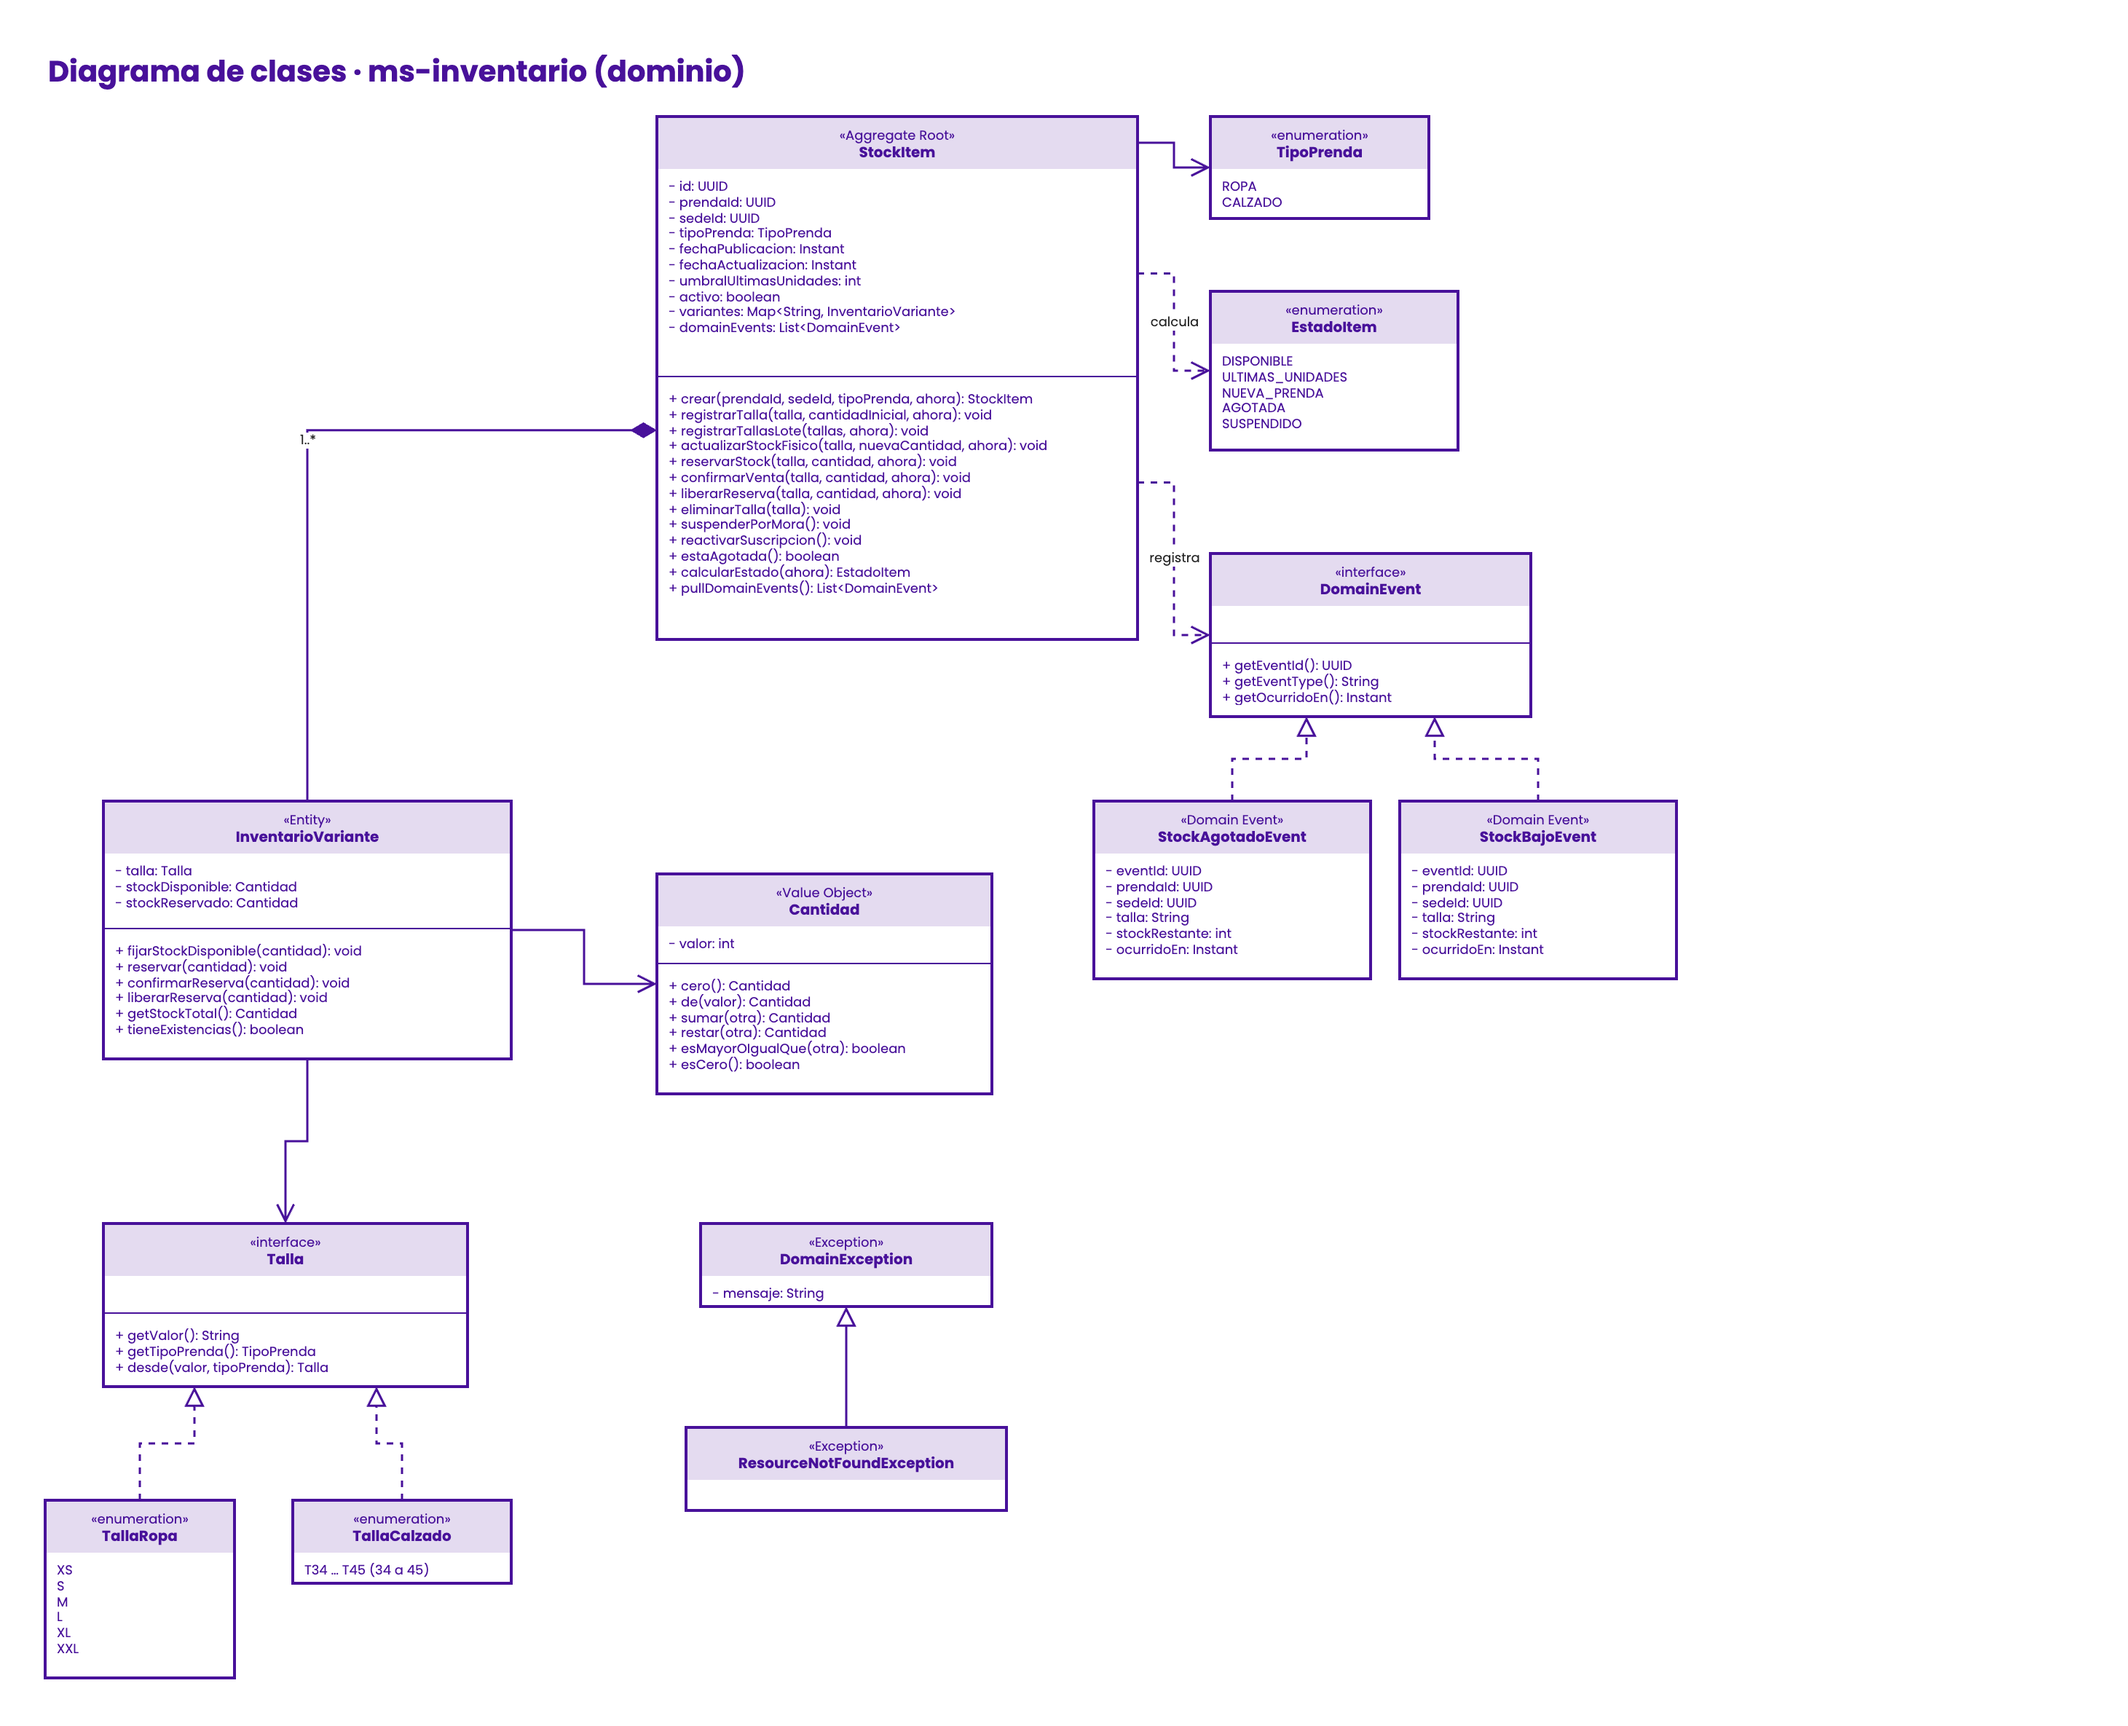
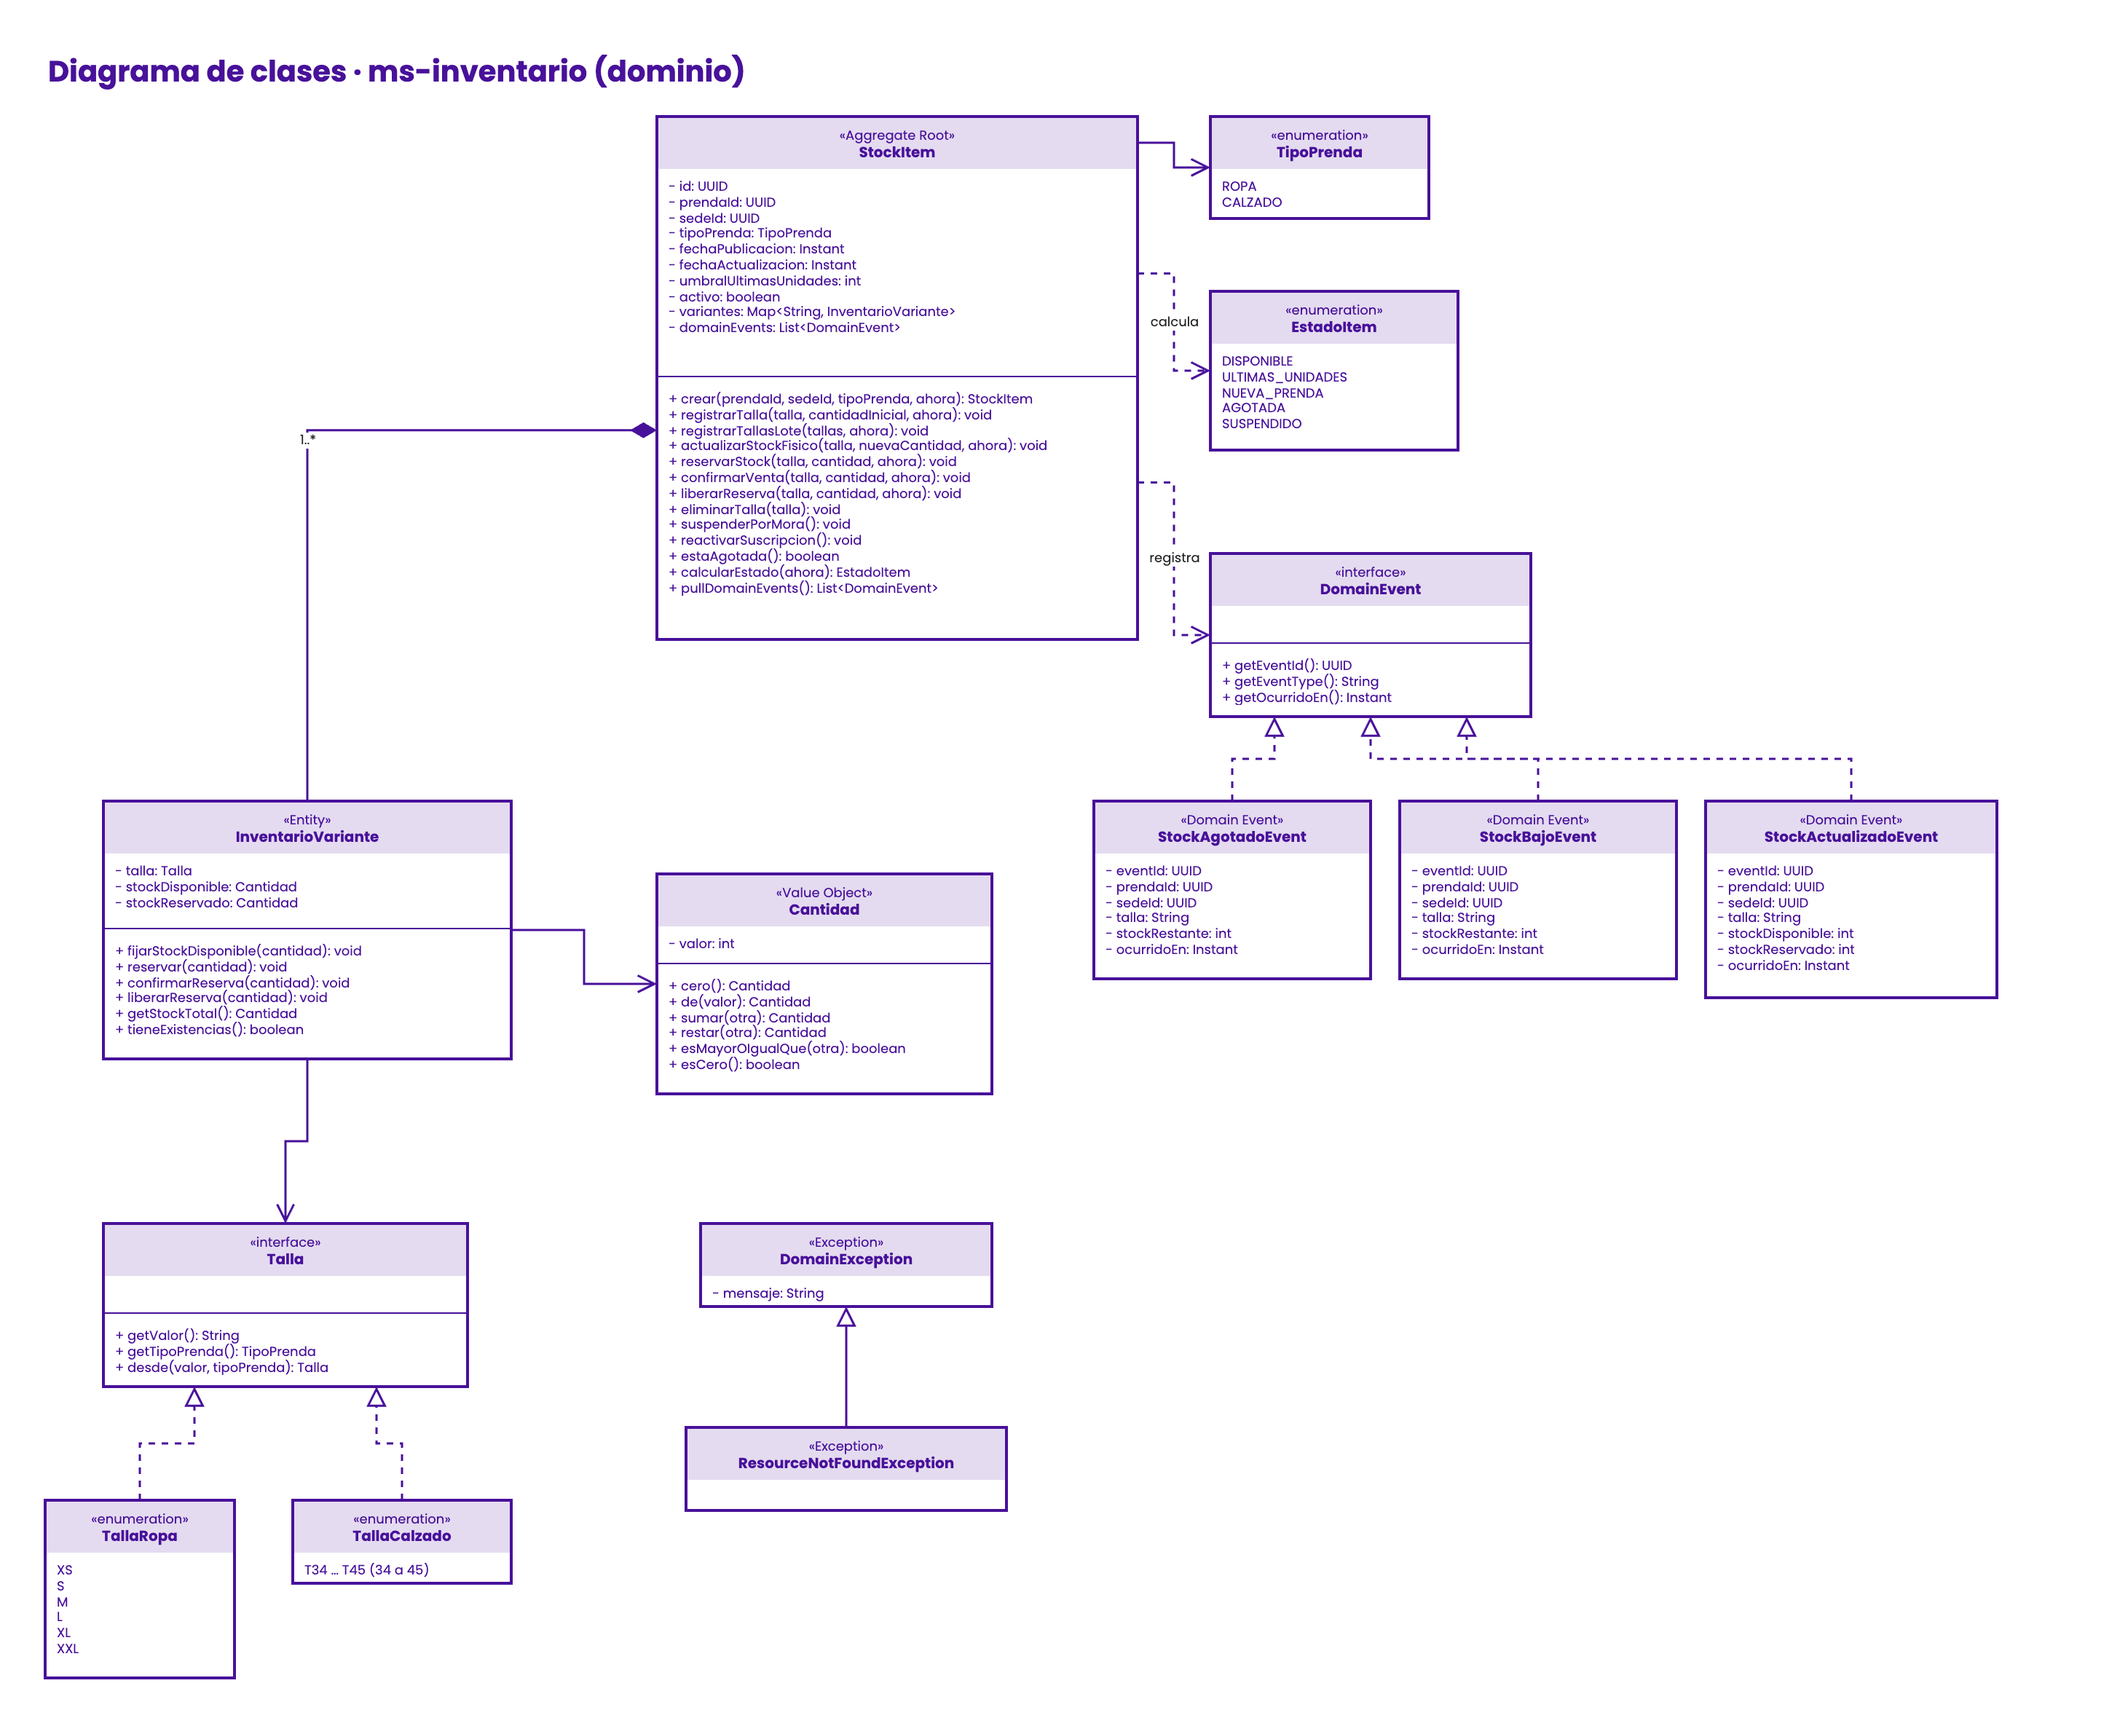
docs: reflect styleradar.exchange and StockActualizadoEvent in inventory diagrams

Changed region(s): [[0.7786, 0.4371, 0.9654, 0.562]]

diff --git a/README.md b/README.md
@@ -204,7 +204,7 @@ El diagrama muestra los cuatro microservicios del paquete Catálogo y cómo se r
   </table>
 </div>
 
-El diagrama muestra el servicio en arquitectura hexagonal. Las peticiones llegan desde el API Gateway a `InventarioRestController` y los eventos de otros servicios llegan por RabbitMQ a `OrdenPagoEventListener` y `SuscripcionEventListener` (adaptadores de entrada). Estos solo conocen los casos de uso (puertos de entrada): registrar stock, registrar un lote de tallas, ajustar y consultar existencias, filtrar prendas por talla, gestionar reservas y suspender el inventario, cada uno con su implementación. El servicio usa los puertos de salida para guardar las existencias en PostgreSQL 16 (`StockRepositoryPort`) y publicar los eventos de stock en RabbitMQ (`StockEventPublisherPort`). El archivo editable está en `docs/evidencias/DiagramaComponentesInventario.drawio`. Las dependencias apuntan hacia adentro, por lo que el dominio no conoce Spring, JPA ni HTTP.
+El diagrama muestra el servicio en arquitectura hexagonal. Las peticiones llegan desde el API Gateway a `InventarioRestController` y los eventos de otros servicios llegan por RabbitMQ a `OrdenPagoEventListener` y `SuscripcionEventListener` (adaptadores de entrada). Estos solo conocen los casos de uso (puertos de entrada): registrar stock, registrar un lote de tallas, ajustar y consultar existencias, filtrar prendas por talla, gestionar reservas y suspender el inventario, cada uno con su implementación. El servicio usa los puertos de salida para guardar las existencias en PostgreSQL 16 (`StockRepositoryPort`) y publicar los eventos de stock en el exchange `styleradar.exchange` de RabbitMQ (`StockEventPublisherPort`); los mensajes que fallan pasan por `styleradar.dlx` a la cola `styleradar.inventario.dlq`. El archivo editable está en `docs/evidencias/DiagramaComponentesInventario.drawio`. Las dependencias apuntan hacia adentro, por lo que el dominio no conoce Spring, JPA ni HTTP.
 
 ### Diagrama de Clases
 
@@ -224,7 +224,7 @@ El diagrama muestra el servicio en arquitectura hexagonal. Las peticiones llegan
   </table>
 </div>
 
-El agregado principal es `StockItem`, que representa las existencias de una prenda en una sede y agrupa sus `InventarioVariante`, una por cada talla. Cada variante maneja las unidades disponibles y reservadas con el objeto de valor `Cantidad`, y su talla con `Talla`, que puede ser `TallaRopa` (XS a XXL) o `TallaCalzado` (34 a 45) según el `TipoPrenda`. Los métodos del agregado cubren registrar tallas, actualizar existencias, reservar, confirmar o liberar una reserva y suspender el inventario por mora. El estado de la prenda (disponible, últimas unidades, nueva, agotada o suspendida) se calcula a partir de las existencias, y al quedar pocas o ninguna unidad se generan los eventos de dominio `StockBajoEvent` y `StockAgotadoEvent`. Los errores de negocio heredan de `DomainException`. El archivo editable está en `docs/evidencias/DiagramaClasesInventario.drawio`.
+El agregado principal es `StockItem`, que representa las existencias de una prenda en una sede y agrupa sus `InventarioVariante`, una por cada talla. Cada variante maneja las unidades disponibles y reservadas con el objeto de valor `Cantidad`, y su talla con `Talla`, que puede ser `TallaRopa` (XS a XXL) o `TallaCalzado` (34 a 45) según el `TipoPrenda`. Los métodos del agregado cubren registrar tallas, actualizar existencias, reservar, confirmar o liberar una reserva y suspender el inventario por mora. El estado de la prenda (disponible, últimas unidades, nueva, agotada o suspendida) se calcula a partir de las existencias, y al quedar pocas o ninguna unidad se generan los eventos de dominio `StockBajoEvent` y `StockAgotadoEvent`. Además, cada cambio de existencias genera `StockActualizadoEvent`. Los errores de negocio heredan de `DomainException`. El archivo editable está en `docs/evidencias/DiagramaClasesInventario.drawio`.
 
 ### Diagrama de Base de Datos
 
